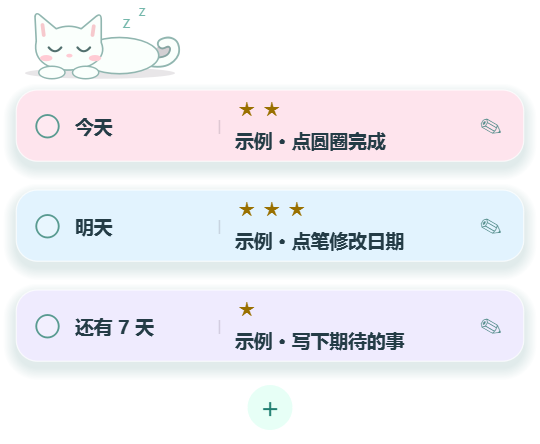
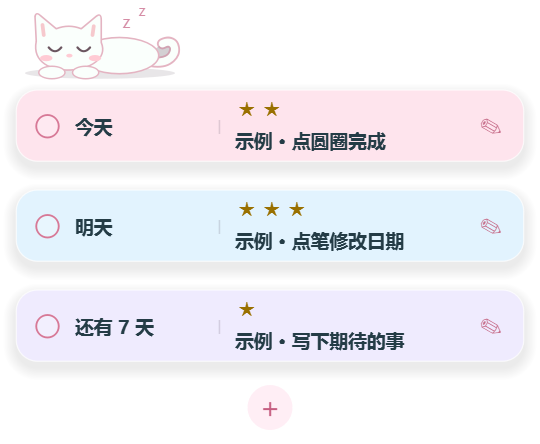
Replace green widget outlines with pink and white

diff --git a/main.py b/main.py
@@ -135,7 +135,7 @@ def paint_panel(painter, rect, color, radius=17):
     painter.setPen(Qt.NoPen)
     # 将阴影画在预留区域内，滚动或透明窗口均不会裁断效果。
     for spread in range(10, 0, -1):
-        painter.setBrush(QColor(31, 85, 94, 3))
+        painter.setBrush(QColor(103, 71, 83, 3))
         painter.drawRoundedRect(rect.adjusted(-spread, -spread + 5, spread, spread + 5),
                                 radius + spread, radius + spread)
     painter.setBrush(color)
@@ -171,7 +171,7 @@ class Cat(DragSurface):
     def paintEvent(self, event):
         p = QPainter(self)
         p.setRenderHint(QPainter.Antialiasing)
-        outline = QColor("#91B6B0")
+        outline = QColor("#E4B4C2")
         coat = QColor("#FAFFFC")
         p.setPen(Qt.NoPen)
         p.setBrush(QColor(42, 31, 48, 28))
@@ -198,7 +198,7 @@ class Cat(DragSurface):
         p.setPen(QPen(QColor("#F6C9CD"), 3, Qt.SolidLine, Qt.RoundCap))
         p.drawLine(QPointF(34, 20), QPointF(35, 28))
         p.drawLine(QPointF(75, 21), QPointF(74, 28))
-        p.setPen(QPen(QColor("#52706E"), 1.8, Qt.SolidLine, Qt.RoundCap))
+        p.setPen(QPen(QColor("#6B5660"), 1.8, Qt.SolidLine, Qt.RoundCap))
         for x in (39, 62):
             eye = QPainterPath(QPointF(x, 38))
             eye.quadTo(x + 5, 44, x + 10, 38)
@@ -213,7 +213,7 @@ class Cat(DragSurface):
         p.drawEllipse(QRectF(31, 53, 21, 10))
         p.drawEllipse(QRectF(58, 53, 21, 10))
         p.setFont(QFont(FONT, 10))
-        p.setPen(QColor("#74B7AB"))
+        p.setPen(QColor("#D58CA5"))
         p.drawText(QPointF(98, 22), "z")
         p.setFont(QFont(FONT, 8))
         p.drawText(QPointF(111, 13), "z")
@@ -231,8 +231,8 @@ class CompleteButton(QPushButton):
     def paintEvent(self, event):
         p = QPainter(self)
         p.setRenderHint(QPainter.Antialiasing)
-        p.setPen(QPen(QColor("#599B91"), 1.5))
-        p.setBrush(QColor("#599B91") if self.isChecked() else
+        p.setPen(QPen(QColor("#D77997"), 1.5))
+        p.setBrush(QColor("#D77997") if self.isChecked() else
                    QColor(255, 255, 255, 125 if self.underMouse() else 50))
         p.drawEllipse(QRectF(6, 8, 18, 18))
         if self.isChecked():
@@ -243,7 +243,7 @@ class CompleteButton(QPushButton):
             p.drawPath(path)
         if self.hasFocus():
             p.setBrush(Qt.NoBrush)
-            p.setPen(QPen(QColor("#238777"), 1, Qt.DotLine))
+            p.setPen(QPen(QColor("#D9688B"), 1, Qt.DotLine))
             p.drawRoundedRect(QRectF(2, 3, 26, 28), 8, 8)
 
 
@@ -332,7 +332,7 @@ class Card(DragSurface):
         self.edit_button.setAccessibleName(f"编辑：{task['title']}")
         self.edit_button.setToolTip("修改日期和内容（也可双击卡片）")
         self.edit_button.setCursor(Qt.PointingHandCursor)
-        self.edit_button.setStyleSheet("QPushButton { color: #518B89; background: transparent; border: none; border-radius: 6px; font-size: 20px; } QPushButton:hover,QPushButton:focus { background: rgba(255,255,255,140); }")
+        self.edit_button.setStyleSheet("QPushButton { color: #C66C89; background: transparent; border: none; border-radius: 6px; font-size: 20px; } QPushButton:hover,QPushButton:focus { background: rgba(255,255,255,140); }")
         self.edit_button.clicked.connect(lambda: self.on_edit(self.task))
         row.addWidget(self.edit_button)
         self.refresh()
@@ -405,7 +405,7 @@ class Group(DragSurface):
         self.scroll.setHorizontalScrollBarPolicy(Qt.ScrollBarAlwaysOff)
         self.scroll.setStyleSheet("QScrollArea { border: none; background: transparent; }"
                                   "QScrollBar:vertical { background: transparent; width: 5px; }"
-                                  "QScrollBar::handle:vertical { background: #A6DCD1; border-radius: 2px; min-height: 22px; }"
+                                  "QScrollBar::handle:vertical { background: #F0B9CA; border-radius: 2px; min-height: 22px; }"
                                   "QScrollBar::add-line:vertical,QScrollBar::sub-line:vertical { height: 0px; }"
                                   "QScrollBar::add-page:vertical,QScrollBar::sub-page:vertical { background: transparent; }")
         self.scroll.viewport().setAutoFillBackground(False)
@@ -425,10 +425,10 @@ class Group(DragSurface):
         self.plus.setToolTip("添加任务 · Ctrl + Alt + T")
         self.plus.setFixedSize(38, 38)
         self.plus.setCursor(Qt.PointingHandCursor)
-        self.plus.setStyleSheet("QPushButton { color: #207E70; font: 22px 'Microsoft YaHei UI';"
-                                "background: rgba(230,255,246,248); border: 1px solid #FFFFFF; border-radius: 19px; }"
-                                "QPushButton:hover { background: #F5FFFB; }"
-                                "QPushButton:focus { border: 2px solid #53BFA9; }")
+        self.plus.setStyleSheet("QPushButton { color: #C55D80; font: 22px 'Microsoft YaHei UI';"
+                                "background: rgba(255,238,245,248); border: 1px solid #FFFFFF; border-radius: 19px; }"
+                                "QPushButton:hover { background: #FFF8FB; }"
+                                "QPushButton:focus { border: 2px solid #E889A9; }")
         footer.addWidget(self.plus)
         footer.addStretch()
         layout.addLayout(footer)
@@ -451,7 +451,7 @@ class Group(DragSurface):
             empty = label("今天也要从容一点。\n点一下 +，记下下一件事", 10.5)
             empty.setFixedHeight(80)
             empty.setAlignment(Qt.AlignCenter)
-            empty.setStyleSheet("color: #416E6B; background: rgba(240,255,250,248); border: 1px solid white; border-radius: 17px; margin: 5px 13px 13px;")
+            empty.setStyleSheet("color: #805568; background: rgba(255,246,250,248); border: 1px solid white; border-radius: 17px; margin: 5px 13px 13px;")
             self.cards_lay.addWidget(empty)
         screen = self.screen().availableGeometry()
         height = min(max(1, len(tasks)) * 80, max(100, screen.height() - 190))
@@ -661,7 +661,7 @@ class InputBox(QDialog):
         self.submit.setText("保存  ↵" if task else "添加  ↵")
         self.edit.setText(f"{task['date']} {task['title']}" if task else "")
         self.hint.setText("例如：10月16日 开会  /  2026-10-16 开会")
-        self.hint.setStyleSheet("color: #527771; background: transparent;")
+        self.hint.setStyleSheet("color: #A56C7D; background: transparent;")
         self.show()
         self.raise_()
         self.activateWindow()
@@ -722,7 +722,7 @@ def make_icon():
     image.fill(Qt.transparent)
     p = QPainter(image)
     p.setRenderHint(QPainter.Antialiasing)
-    p.setPen(QPen(QColor("#91B6B0"), 2))
+    p.setPen(QPen(QColor("#E4B4C2"), 2))
     p.setBrush(QColor("#FAFFFC"))
     path = QPainterPath(QPointF(12, 29))
     path.lineTo(12, 10)
